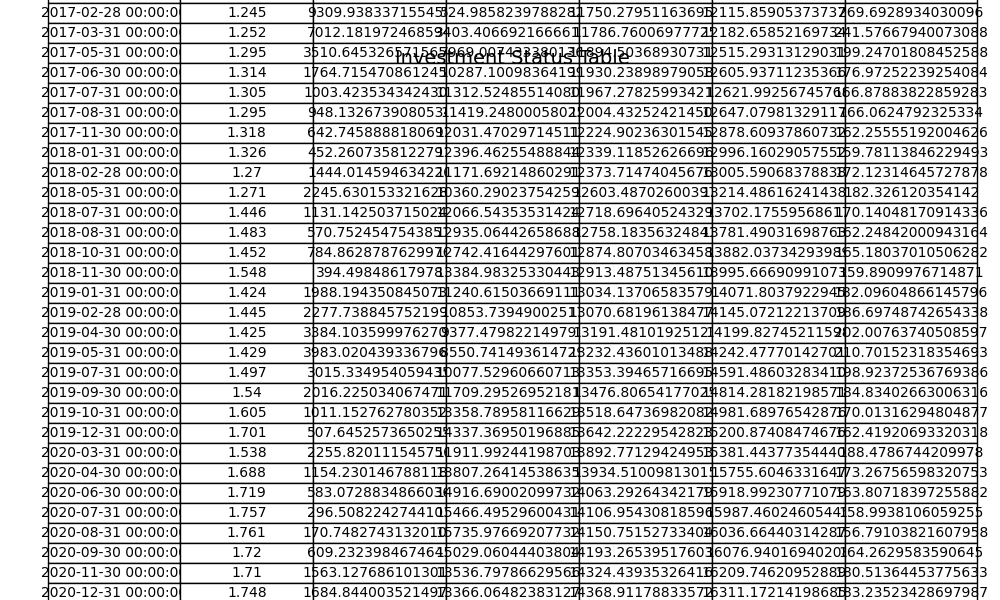
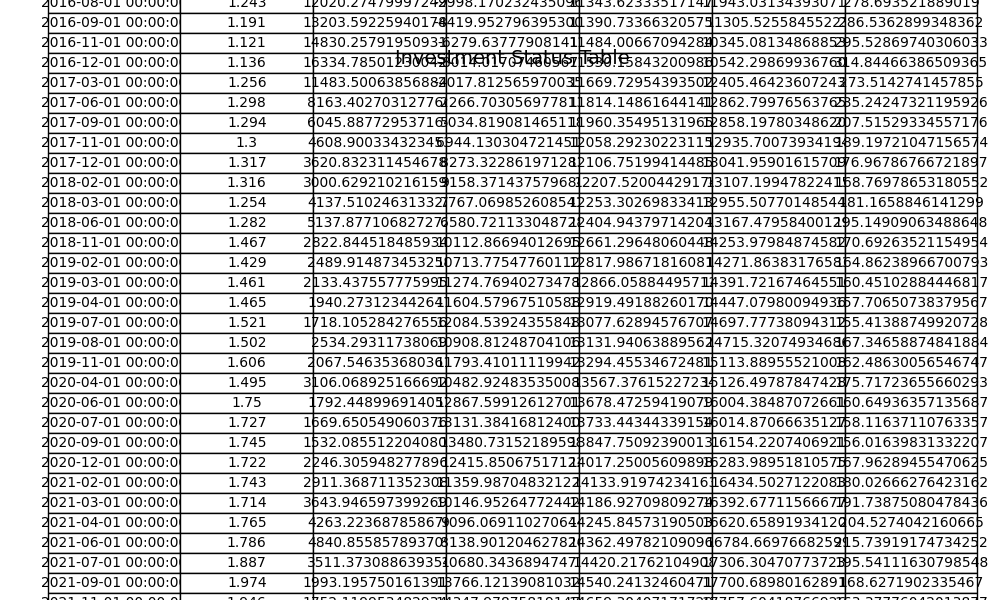
correct cash_growth_without_investment

diff --git a/main.py b/main.py
@@ -3,7 +3,7 @@ import pandas as pd
 import matplotlib.pyplot as plt
 
 class CustomInvestmentStrategy:
-    def __init__(self, fund_code, start_date, end_date, total_investment, investment_frequency='M'):
+    def __init__(self, fund_code, start_date, end_date, total_investment, investment_frequency):
         self.fund_code = fund_code
         self.start_date = start_date
         self.end_date = end_date
@@ -15,8 +15,9 @@ class CustomInvestmentStrategy:
         self.cash = total_investment
         self.last_price = None
         self.holding_cost = 0  # 当前持仓的成本
-        self.daily_interest_rate = 0.0001  # 银行每日利率 0.01%
+        self.daily_interest_rate = 0.0001337  # 银行每年增长5%
         self.last_investment_date = pd.to_datetime(start_date)  # 上一次投资日期
+
         # 获取基金数据
         self.fund_data = xa.fundinfo(fund_code)
         self.get_price_data()
@@ -39,34 +40,26 @@ class CustomInvestmentStrategy:
 
         # 使用结束日期生成日期范围
         times = pd.date_range(start=self.start_date, end=self.end_date, freq=self.investment_frequency)
-
-        # 记录上一个卖出的月份
-        last_sell_month = None
+        print(times)
         
         # 计算最大回升月份数
         max_price = 0  # 记录基金的最高净值
         max_recovery_months = 0  # 记录最大回升月份数
         current_recovery_months = 0  # 当前回升月份计数
-
         for date in times:
-            
             price_row = self.price_data[self.price_data['date'] == date]
-
             if not price_row.empty:
                 price = price_row['netvalue'].values[0]  # 使用净值
             else:
                 continue
-
             # 更新基金的最高净值
             if price > max_price:
                 max_price = price
                 current_recovery_months = 0  # 重置回升计数
             else:
                 current_recovery_months += 1  # 增加回升月份计数
-
             # 更新最大回升月份数
             max_recovery_months = max(max_recovery_months, current_recovery_months)
-
         # 打印最大回升月份数
         print(f"最大回升月份数: {max_recovery_months}")
 
@@ -75,38 +68,34 @@ class CustomInvestmentStrategy:
 
         # 开始投资模拟
         monthly_investment = self.total_investment / max_recovery_months 
-        monthly_investment = monthly_investment * 0.2 # 增加每月初始投资金额来增加波动进而增加收益
+        monthly_investment = monthly_investment * 1.5 # 增加每月初始投资金额来增加波动进而增加收益
         monthly_investment_initial = monthly_investment
+        
         for date in times:
             # 计算从上一次投资到当前日期的天数
             days_diff = (date - self.last_investment_date).days
             
             # 更新现金的增长
             self.cash *= (1 + self.daily_interest_rate) ** days_diff
-            self.cash_growth_without_investment = self.cash_growth_without_investment * (1 + self.daily_interest_rate) ** days_diff
+            self.cash_growth_without_investment *=  (1 + self.daily_interest_rate) ** days_diff
+            #print(f"date: {date} , cash_growth_without_investment: {self.cash_growth_without_investment}")
+            #print(f"last_investment_date: {self.last_investment_date}")
             price_row = self.price_data[self.price_data['date'] == date]
-
+            self.last_investment_date = date  # 更新最后投资日期
             if not price_row.empty:
                 price = price_row['netvalue'].values[0]  # 使用净值
             else:
                 continue
 
-            # 获取当前月份
-            current_month = date.month
-            current_year = date.year
-
-            # 检查是否在当月已经卖出
-            if last_sell_month == (current_year, current_month):
-                continue  # 如果已经卖出，则跳过买入
-
             # 计算当前每月可变投资金额
             if self.last_price is not None:
                 price_change = (price - self.last_price)/self.last_price
                 if price_change > 0:
-                    monthly_investment /= (1 + 300*price_change)  # 上涨减少每月投资金额
+                    monthly_investment /= (1 + 5*price_change)  # 上涨减少每月投资金额
                     #monthly_investment = monthly_investment 
                 else :
-                    monthly_investment *= (1 - 200*price_change)  # 下跌增加每月投资金额
+                    monthly_investment *= (1 - 5*price_change)  # 下跌增加每月投资金额
+                   #monthly_investment = monthly_investment 
             else:
                 price_change = 0
             
@@ -123,40 +112,28 @@ class CustomInvestmentStrategy:
                 if self.holding_cost > 0 else 0
             )
 
-            # 根据当前持仓的收益涨幅进行卖出判断
+            #根据当前持仓的收益涨幅进行卖出判断
             if holding_gain_percentage > 10:
-                sell_amount = self.holding  /2
+                sell_amount = self.holding /2
                 self.cash += sell_amount * price
                 self.holding -= sell_amount
                 # 更新持仓成本
                 #self.holding_cost -= (sell_amount * price) / self.holding  # 更新持仓成本（按比例分配）
                 self.holding_cost *= 1/2 # 更新持仓成本（按比例分配）
-                last_sell_month = (current_year, current_month)  # 更新上一个卖出月份
                 monthly_investment = monthly_investment_initial  # 重新计算每月投资金额
                 print(f"在 {date.date()} 全部卖出，持仓: {self.holding}, 现金: {self.cash}")
-            elif holding_gain_percentage > 8:
-                sell_amount = self.holding /3
+
+
+            elif holding_gain_percentage > 5:
+                sell_amount = self.holding / 3
                 self.cash += sell_amount * price
                 self.holding -= sell_amount
                 # 更新持仓成本
                 #self.holding_cost -= (sell_amount * price) / self.holding  # 更新持仓成本（按比例分配）
                 self.holding_cost *= 2/3  # 更新持仓成本（按比例分配）
-                last_sell_month = (current_year, current_month)  # 更新上一个卖出月份
-                monthly_investment = monthly_investment_initial  # 重新计算每月投资金额
-                print(f"在 {date.date()} 卖出一半，持仓: {self.holding}, 现金: {self.cash}")
-
-            elif holding_gain_percentage > 5:
-                sell_amount = self.holding / 4
-                self.cash += sell_amount * price
-                self.holding -= sell_amount
-                # 更新持仓成本
-                #self.holding_cost -= (sell_amount * price) / self.holding  # 更新持仓成本（按比例分配）
-                self.holding_cost *= 3/4  # 更新持仓成本（按比例分配）
-                last_sell_month = (current_year, current_month)  # 更新上一个卖出月份
                 print(f"在 {date.date()} 卖出三分之一，持仓: {self.holding}, 现金: {self.cash}")
                 monthly_investment = monthly_investment_initial  # 重新计算每月投资金额
             self.last_price = price
-            self.last_investment_date = date  # 更新最后投资日期
 
             # 记录状态
             total_value = self.cash + self.holding * price
@@ -235,8 +212,9 @@ class CustomInvestmentStrategy:
 # 使用自定义策略
 fund_code = '000369'  # 替换为实际基金代码
 start_date = '2014-01-01'
-end_date = '2023-12-31'  # 新增结束日期
+end_date = '2024-01-01'  # 新增结束日期
 total_investment = 10000  # 总投资金额
+investment_frequency = 'MS'
 
-strategy = CustomInvestmentStrategy(fund_code, start_date, end_date, total_investment)
+strategy = CustomInvestmentStrategy(fund_code, start_date, end_date, total_investment,investment_frequency)
 strategy.simulate()

diff --git a/test.py b/test.py
@@ -1,0 +1,17 @@
+import xalpha as xa
+
+# 假设 'yyws' 是你选择的基金代码
+fund_code = 'yyws'
+start_date = '2016-01-01'
+
+# 创建买入并持有策略实例
+st = xa.policy.buyandhold(fund_code, start_date)
+
+# 配置策略以实现分红再投资
+st.reinvest_dividends = True  # 确保分红再投资
+
+# 运行模拟
+results = st.simulate()
+
+# 打印结果
+print(results)
